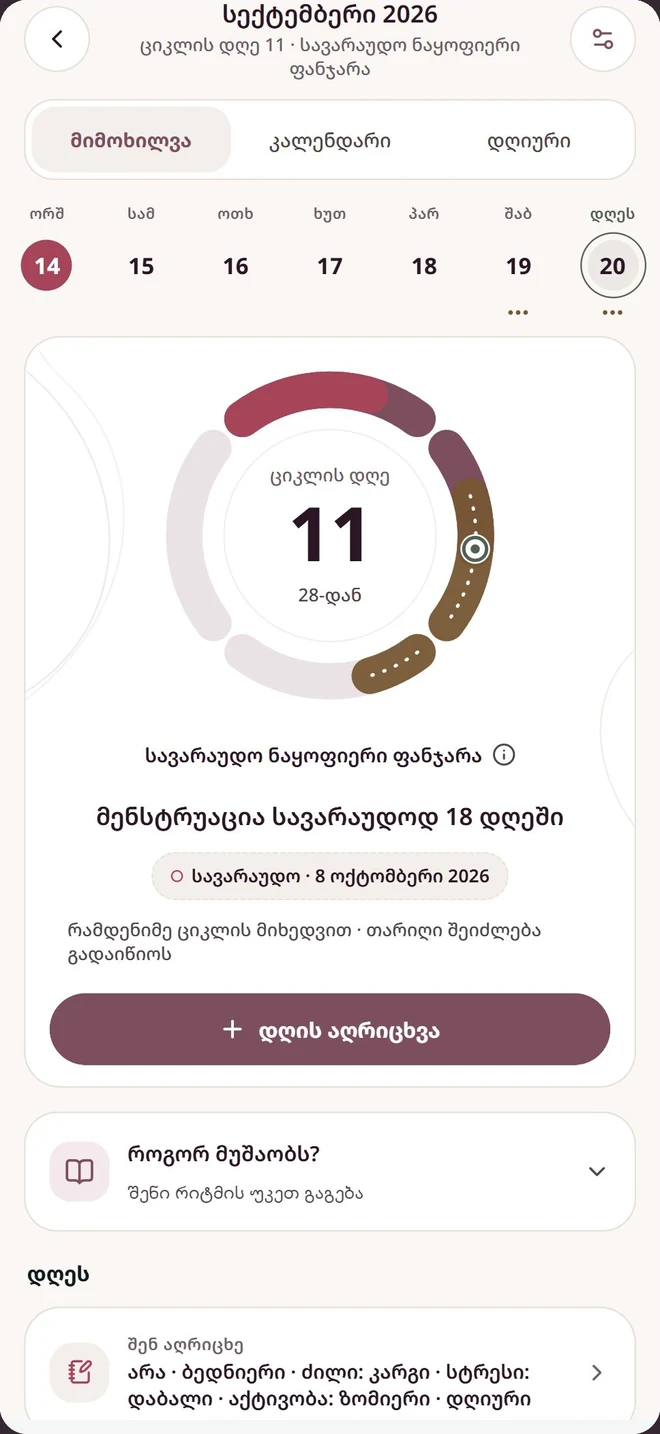
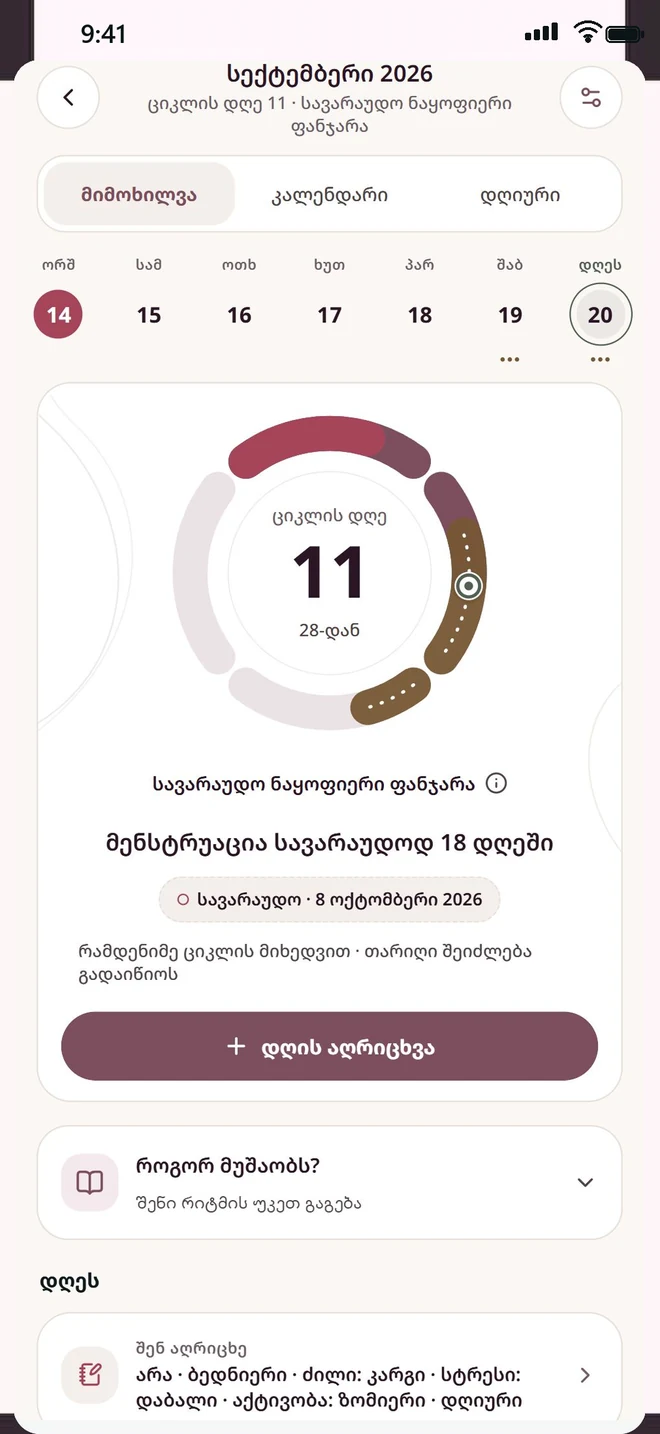
fix(landing): give hero screens a status-bar band so the island clears the header
The raw captures start almost at the top edge, so the Dynamic Island
covered each screen's header. Rebuild the seven screens with a top band
extended from each screen's own colour, 9:41 and status glyphs, and the
content scaled 4% and bottom-aligned so the tab bar stays visible.

diff --git a/server/public/index.html b/server/public/index.html
@@ -80,7 +80,7 @@
             <div class="hero-orbit" aria-hidden="true"><i></i><i></i></div>
             <figure class="iphone" id="hero-phone">
               <img class="iphone-chrome" src="/iphone-16-pro-max.svg" alt="" width="470" height="956" />
-              <div class="iphone-bezel"><div class="phone-screen"><img data-key="home" src="/screens/v2/home.webp" alt="მედიქარდის მთავარი ეკრანი" class="is-on" width="660" height="1434" /><img data-key="hydration" src="/screens/v2/hydration.webp" alt="" width="660" height="1434" /><img data-key="run" src="/screens/v2/run.webp" alt="" width="660" height="1434" /><img data-key="symptoms" src="/screens/v2/symptoms.webp" alt="" width="660" height="1434" /><img data-key="analysis" src="/screens/v2/analysis.webp" alt="" width="660" height="1434" /><img data-key="cycle" src="/screens/v2/cycle.webp" alt="" width="660" height="1434" /><img data-key="log" src="/screens/v2/log.webp" alt="" width="660" height="1434" /></div></div>
+              <div class="iphone-bezel"><div class="phone-screen"><img data-key="home" src="/screens/v2/home.webp?v=2" alt="მედიქარდის მთავარი ეკრანი" class="is-on" width="660" height="1434" /><img data-key="hydration" src="/screens/v2/hydration.webp?v=2" alt="" width="660" height="1434" /><img data-key="run" src="/screens/v2/run.webp?v=2" alt="" width="660" height="1434" /><img data-key="symptoms" src="/screens/v2/symptoms.webp?v=2" alt="" width="660" height="1434" /><img data-key="analysis" src="/screens/v2/analysis.webp?v=2" alt="" width="660" height="1434" /><img data-key="cycle" src="/screens/v2/cycle.webp?v=2" alt="" width="660" height="1434" /><img data-key="log" src="/screens/v2/log.webp?v=2" alt="" width="660" height="1434" /></div></div>
             </figure>
             <p class="hero-aside">შენი სურათი.<br />შენი კონტროლი</p>
           </div>
